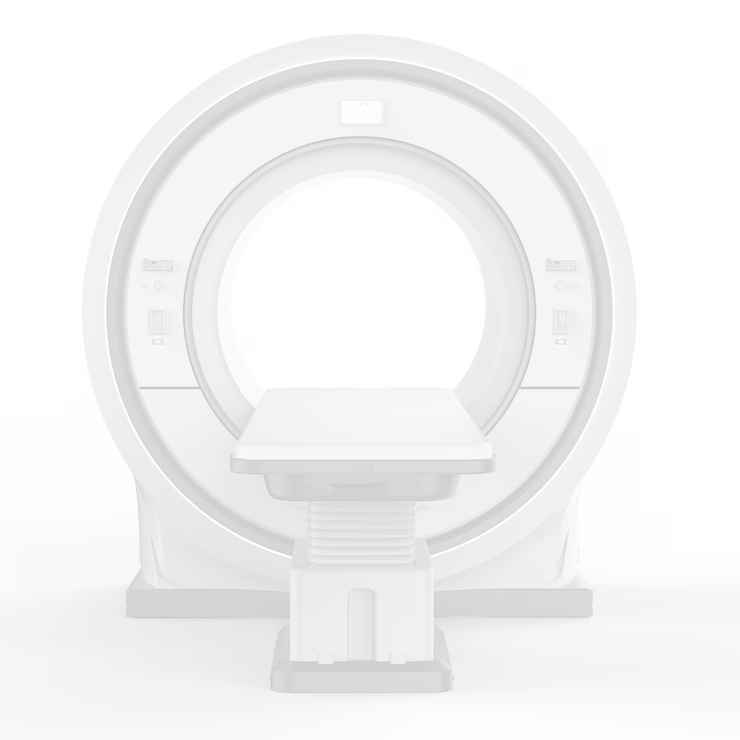
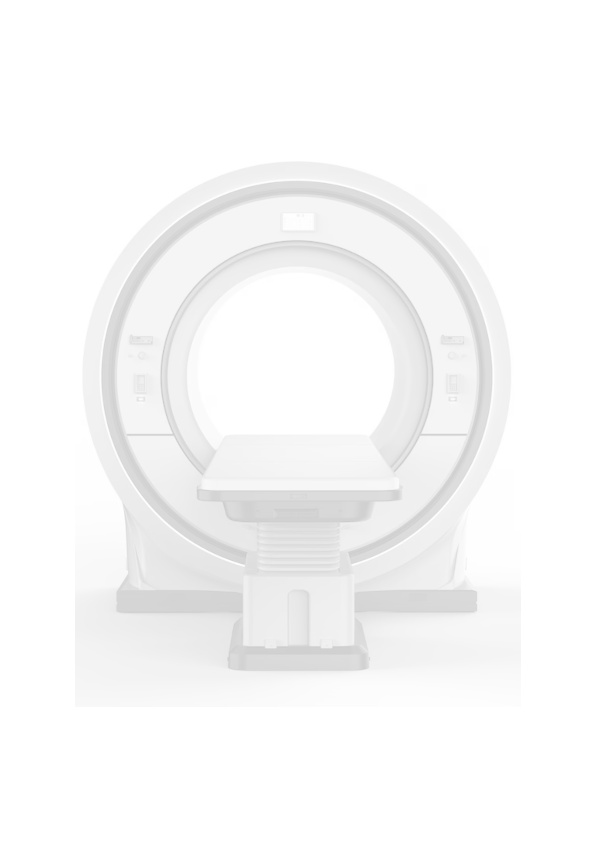
fix: sanitizar caracteres no soportados en PDF (✓, ≥, etc.), fondo A4 ajustado

diff --git a/lib/services/industrial_form_template.dart b/lib/services/industrial_form_template.dart
@@ -32,6 +32,8 @@ Future<FontConfig> _fc() async {
   try { return await StorageService.getFontConfig(); } catch (_) { return const FontConfig(); }
 }
 
+String _san(String s) => String.fromCharCodes(s.runes.where((r) => r >= 0x20 && r <= 0x7E || r >= 0xA0 && r <= 0xFF));
+
 pw.Widget _bar(String t, {pw.Font? fo}) => pw.Container(
   width: _pw, color: _blue,
   padding: const pw.EdgeInsets.symmetric(horizontal: 6, vertical: 2),
@@ -41,7 +43,7 @@ pw.Widget _bar(String t, {pw.Font? fo}) => pw.Container(
 pw.Widget _fld({double? w, double h = 11, String text = ''}) => pw.Container(
   width: w ?? _pw, height: h,
   decoration: pw.BoxDecoration(border: pw.Border(bottom: pw.BorderSide(color: PdfColors.grey400, width: _ln))),
-  child: pw.Text(text, style: const pw.TextStyle(fontSize: 6.5), textAlign: pw.TextAlign.start),
+  child: pw.Text(_san(text), style: const pw.TextStyle(fontSize: 6.5), textAlign: pw.TextAlign.start),
 );
 
 pw.Widget _lbl(String t, {double? w, double fs = 5.5, pw.Font? fo}) => pw.Container(
@@ -64,7 +66,7 @@ Future<File> generateIndustrialForm(ReportModel report) async {
 
   Uint8List watermarkBytes;
   try {
-    watermarkBytes = (await rootBundle.load('assets/fondo/fondo_c.png')).buffer.asUint8List();
+    watermarkBytes = (await rootBundle.load('assets/fondo/fondo.png')).buffer.asUint8List();
   } catch (_) {
     watermarkBytes = Uint8List(0);
   }
@@ -206,8 +208,8 @@ Future<File> generateIndustrialForm(ReportModel report) async {
             decoration: i < 2 ? pw.BoxDecoration(border: pw.Border(bottom: pw.BorderSide(color: PdfColors.grey300, width: _ln))) : null,
             child: pw.Row(children: [
               pw.Container(width: _pw * 0.06, alignment: pw.Alignment.center, child: pw.Text('${i + 1}', style: pw.TextStyle(fontSize: 5.5, color: PdfColors.grey700, font: n))),
-              pw.Container(width: _pw * 0.36, padding: const pw.EdgeInsets.only(left: 2), child: pw.Text(it?.description ?? '', style: pw.TextStyle(fontSize: 5.5, font: n))),
-              pw.Container(width: _pw * 0.24, padding: const pw.EdgeInsets.only(left: 2), child: pw.Text(it?.model ?? '', style: pw.TextStyle(fontSize: 5.5, font: n))),
+              pw.Container(width: _pw * 0.36, padding: const pw.EdgeInsets.only(left: 2), child: pw.Text(_san(it?.description ?? ''), style: pw.TextStyle(fontSize: 5.5, font: n))),
+              pw.Container(width: _pw * 0.24, padding: const pw.EdgeInsets.only(left: 2), child: pw.Text(_san(it?.model ?? ''), style: pw.TextStyle(fontSize: 5.5, font: n))),
               pw.Container(width: _pw * 0.1, alignment: pw.Alignment.center, child: pw.Text(it != null ? '${it.quantity}' : '', style: pw.TextStyle(fontSize: 5.5, font: n))),
               pw.Container(width: _pw * 0.12, alignment: pw.Alignment.centerRight, padding: const pw.EdgeInsets.only(right: 2), child: pw.Text(it != null && it.price > 0 ? '\$${it.price.toStringAsFixed(2)}' : '', style: pw.TextStyle(fontSize: 5.5, font: n))),
               pw.Container(width: _pw * 0.12, alignment: pw.Alignment.centerRight, padding: const pw.EdgeInsets.only(right: 2), child: pw.Text(it != null && it.total > 0 ? '\$${it.total.toStringAsFixed(2)}' : '', style: pw.TextStyle(fontSize: 5.5, font: n))),
@@ -281,7 +283,7 @@ Future<File> generateIndustrialForm(ReportModel report) async {
                 width: _pw,
                 padding: const pw.EdgeInsets.only(left: 3, top: 1),
                 decoration: i < 5 ? pw.BoxDecoration(border: pw.Border(bottom: pw.BorderSide(color: PdfColors.grey300, width: _ln))) : null,
-                child: i == 0 ? pw.Text(observations.isNotEmpty ? observations : '', style: pw.TextStyle(fontSize: 6, font: n)) : pw.SizedBox(),
+                child: i == 0 ? pw.Text(_san(observations), style: pw.TextStyle(fontSize: 6, font: n)) : pw.SizedBox(),
               ),
             )),
           ),

diff --git a/lib/utils/constants.dart b/lib/utils/constants.dart
@@ -2,7 +2,7 @@ import 'package:flutter/material.dart';
 
 class AppConstants {
   static const String appName = 'Electromedicina Pro';
-  static const String version = '1.0.1';
+  static const String version = '1.0.2';
   static const String companyName = 'Electromedicina Pro';
   static const String companyStamp = 'ELECTROMEDICINA PRO S.A.';
 